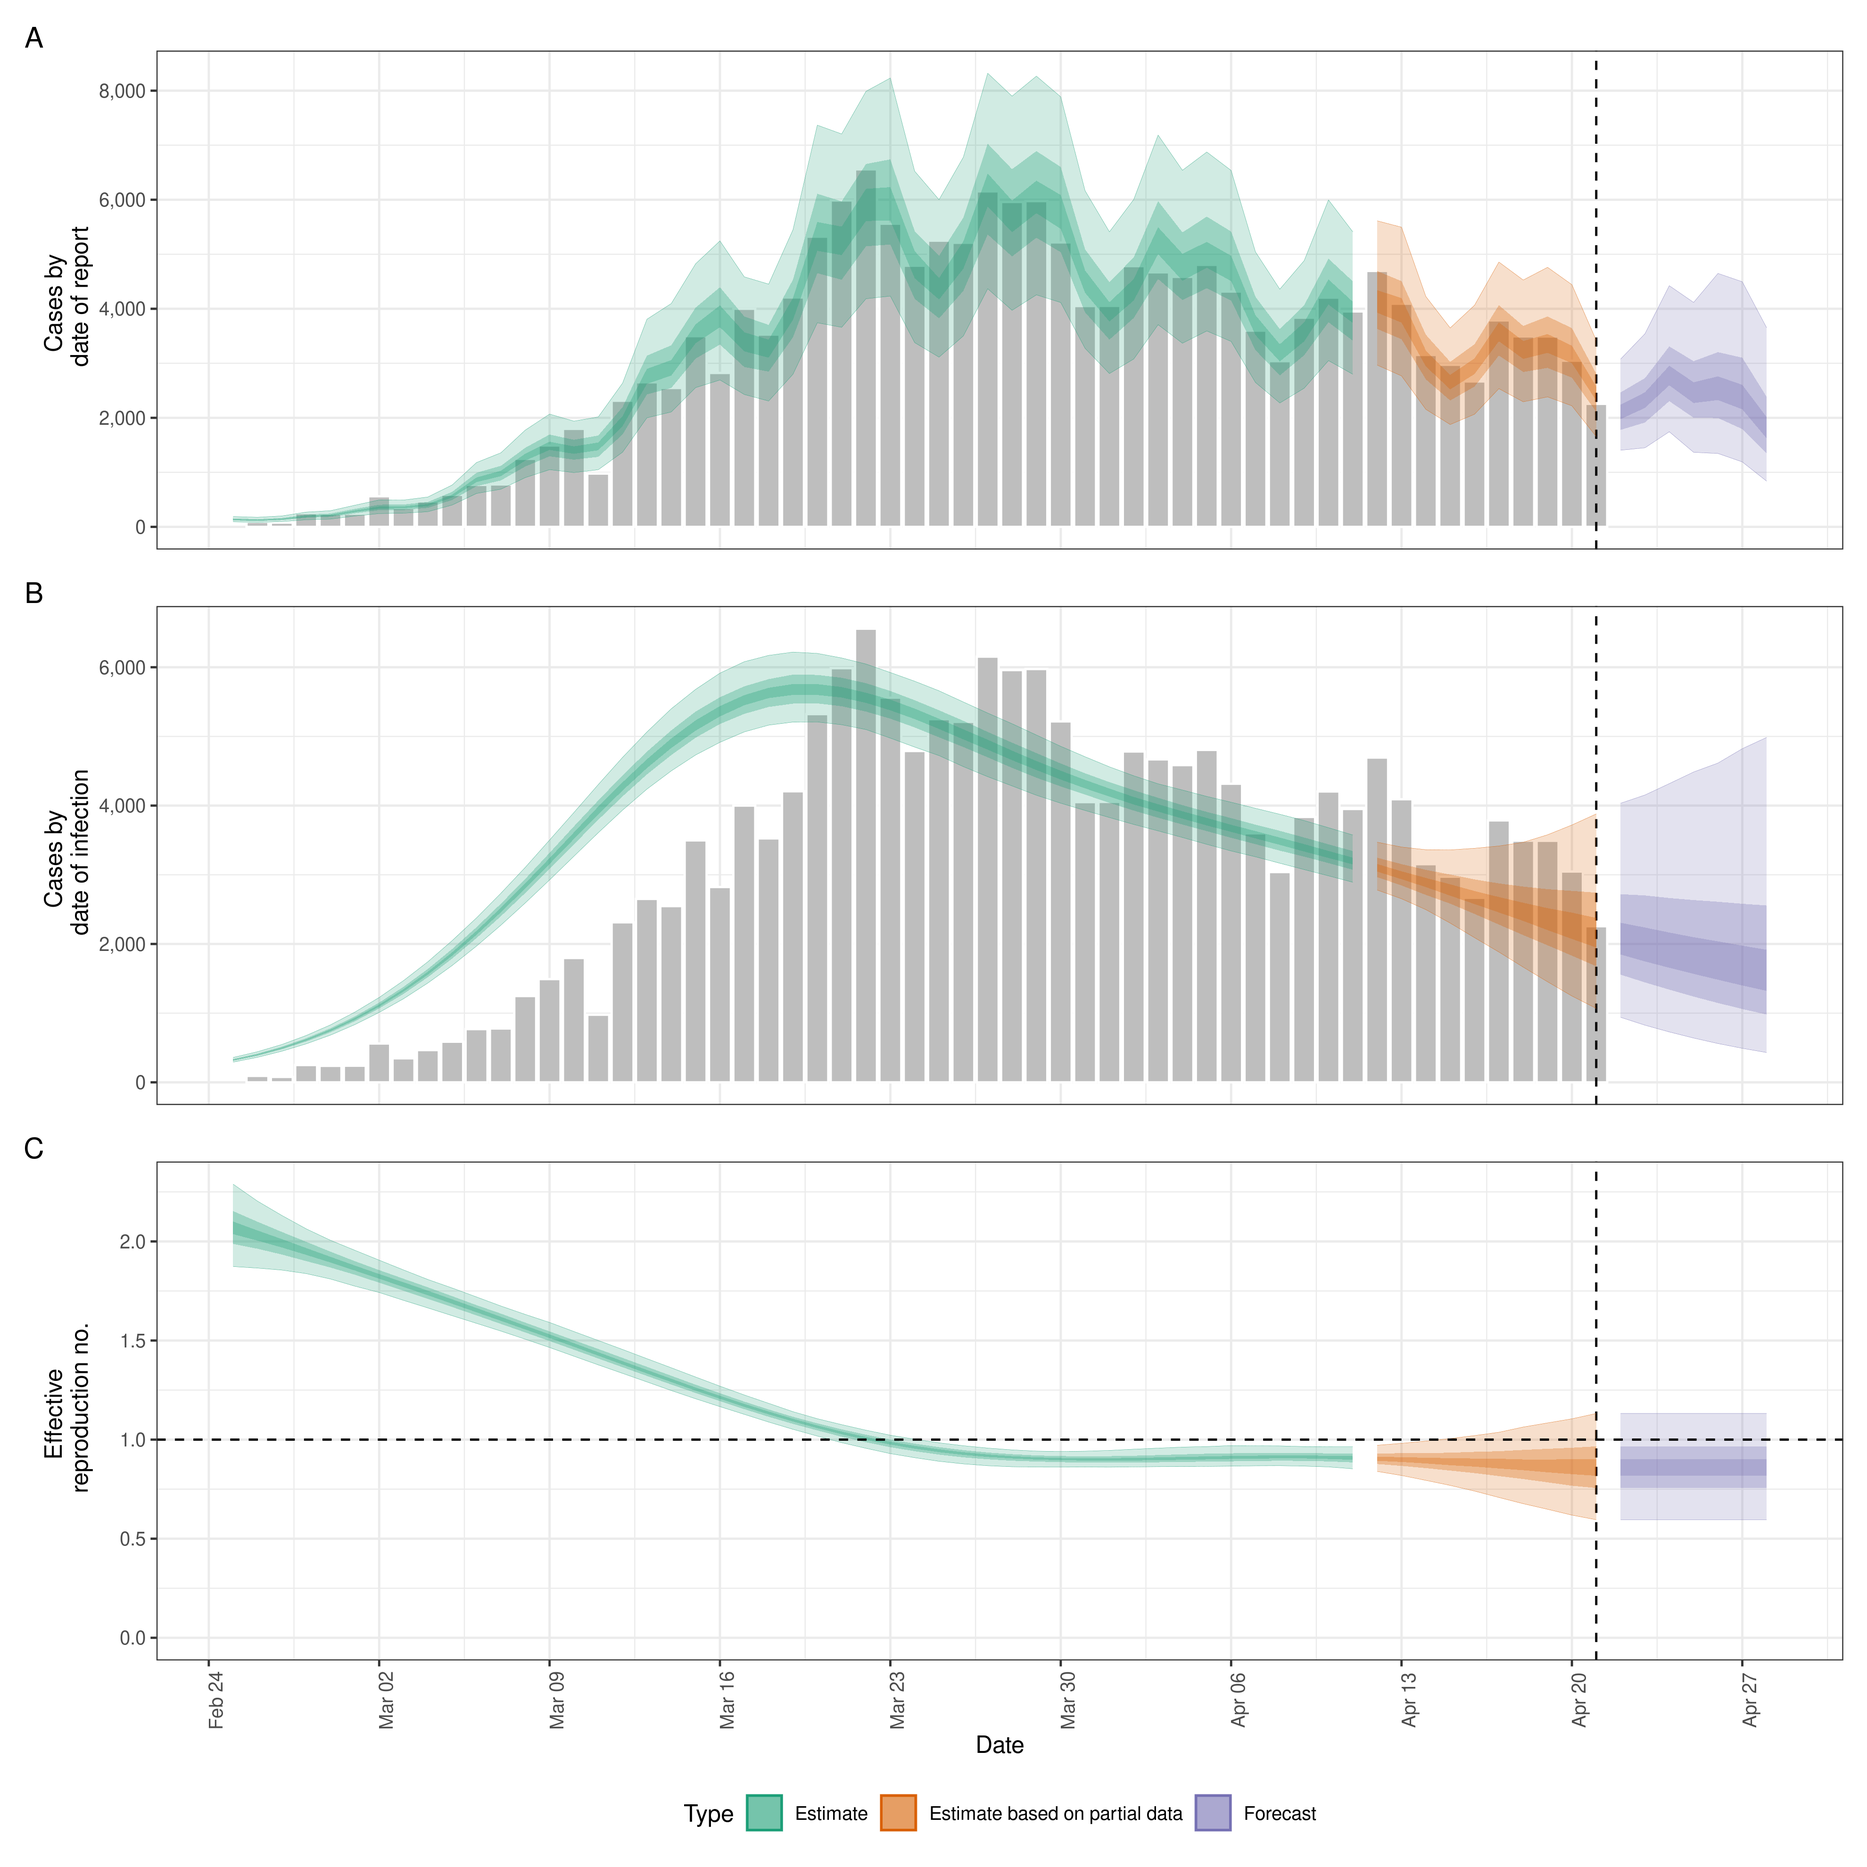
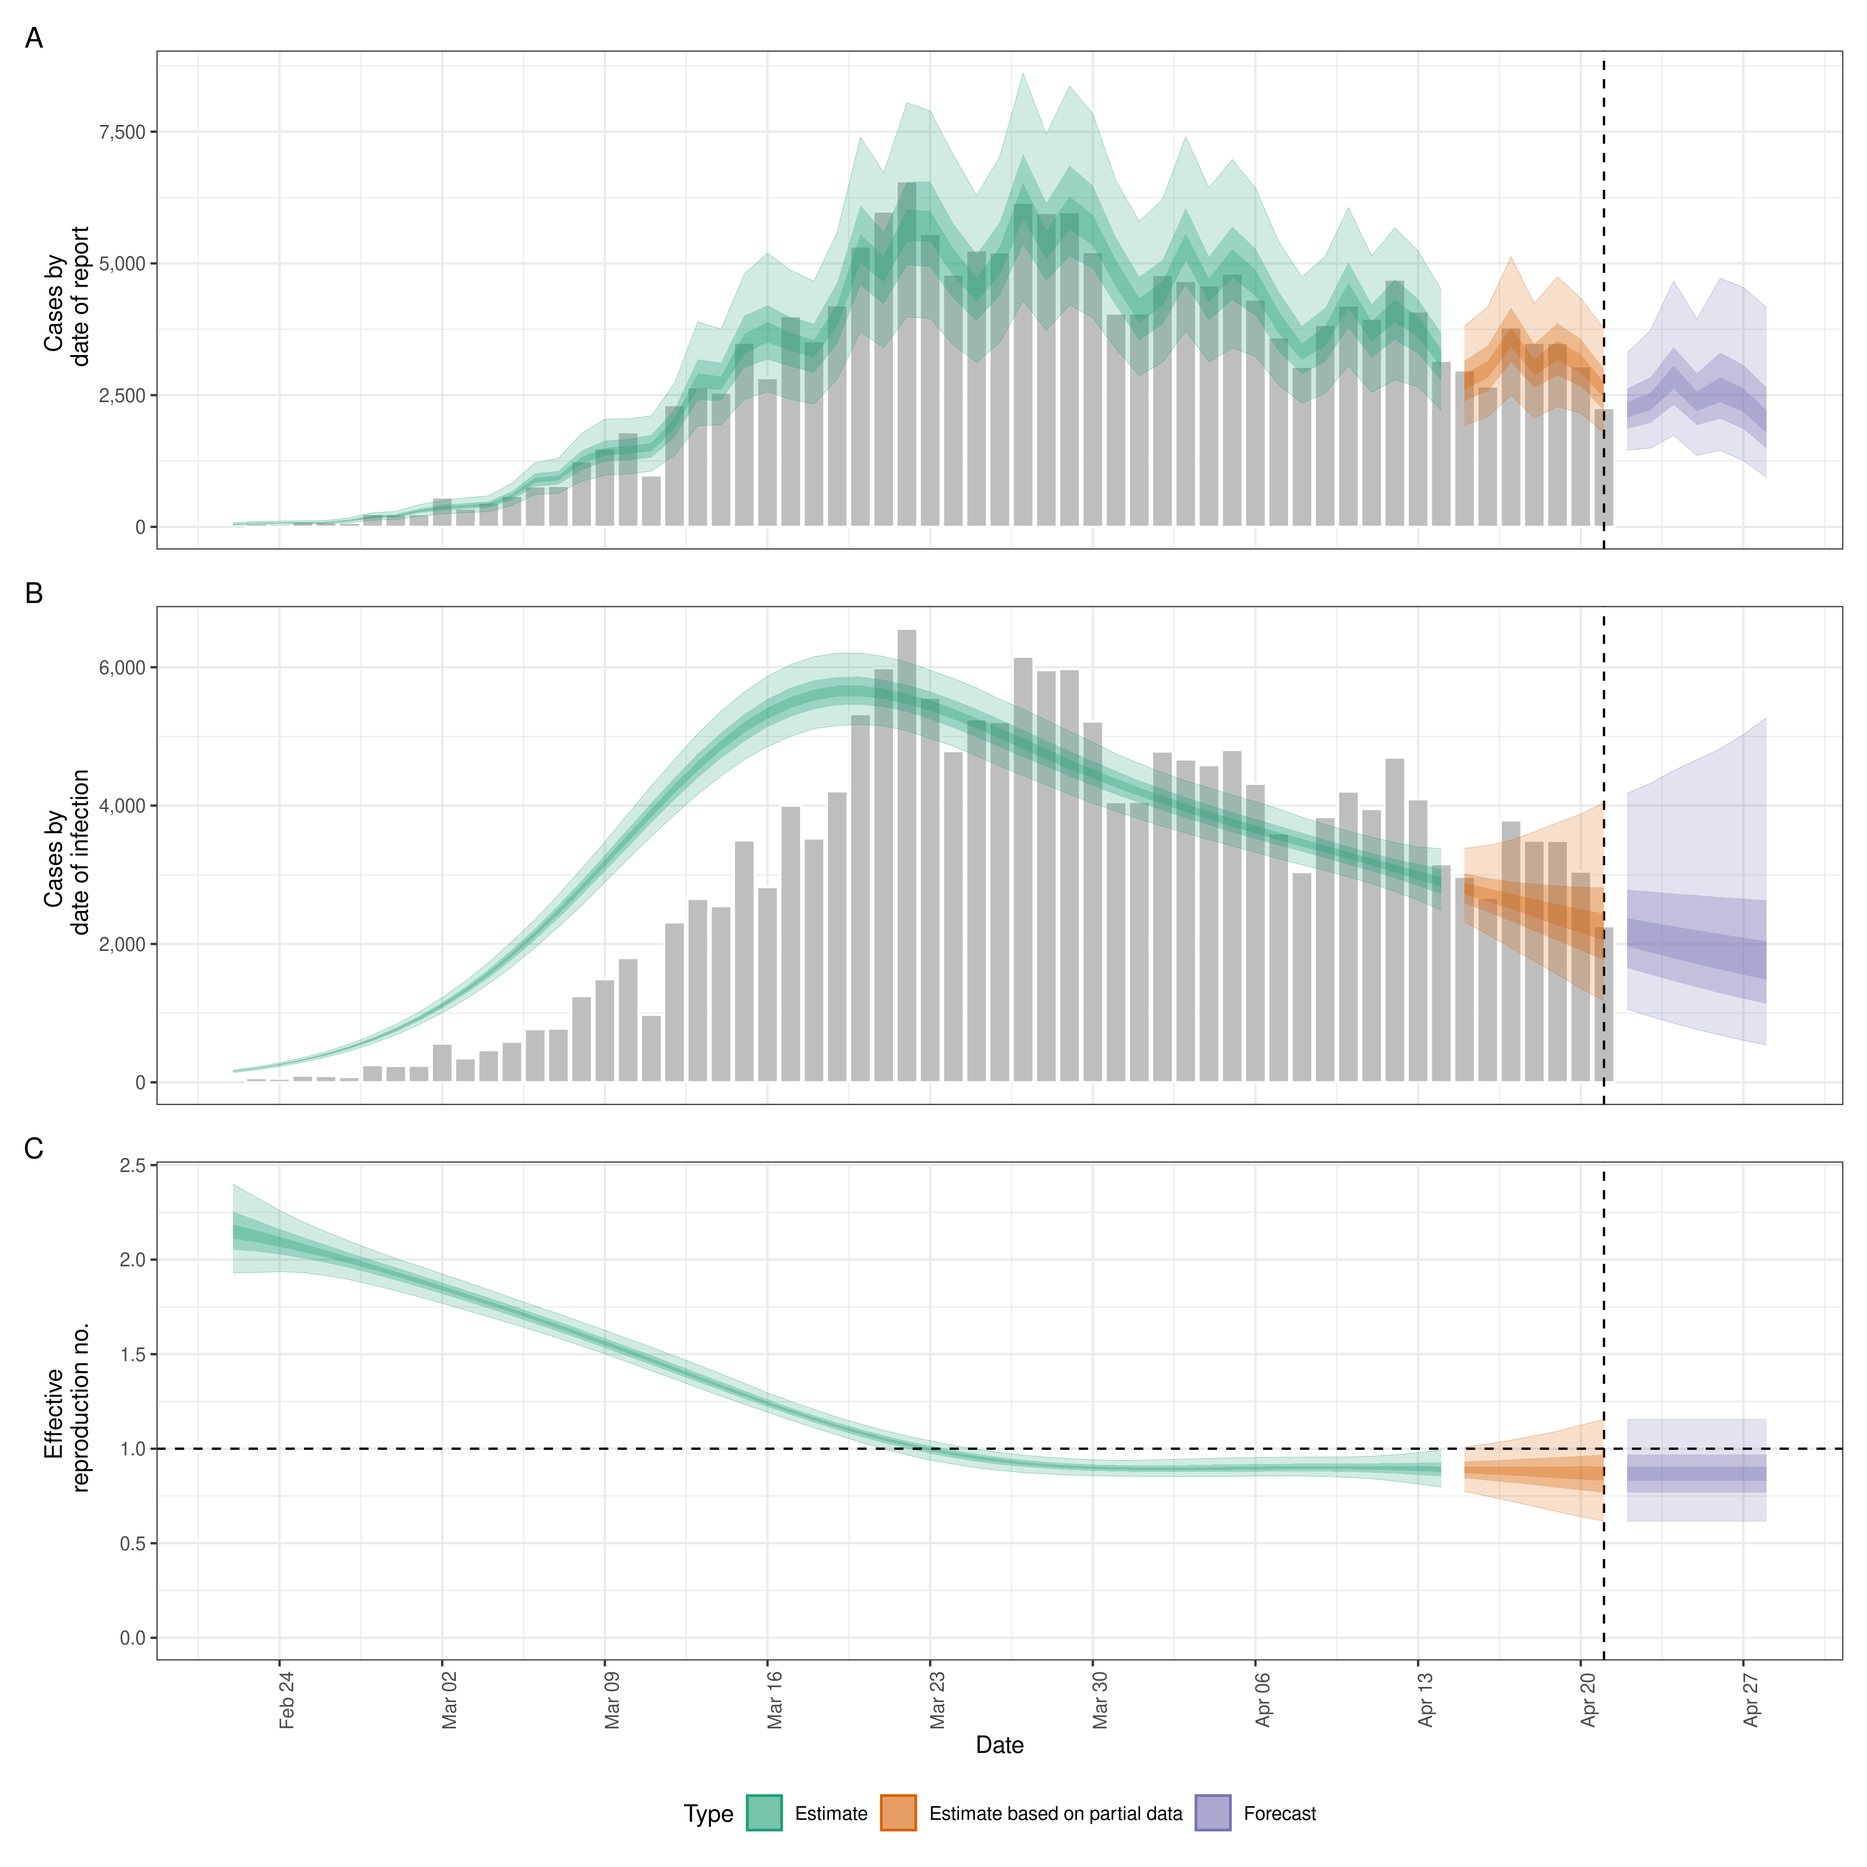
Docmentation: Refresh README

diff --git a/README.md b/README.md
@@ -51,8 +51,8 @@ options include:
     breakpoints.
   - As a random walk (by combining a fixed reproduction number with
     regularly spaced breakpoints (i.e weekly)).
-  - Inferring infections using back-calculation and then calculating the
-    time-varying reproduction number.
+  - Inferring infections using deconvolution/back-calculation and then
+    calculating the time-varying reproduction number.
   - Adjustment for the remaining susceptible population beyond the
     forecast horizon.
 
@@ -160,29 +160,31 @@ reporting_delay <- estimate_delay(
 ```
 
 If data was not available we could instead make an informed estimate of
-the likely delay (note this is a synthetic example and not applicable to
-real world use cases),
+the likely delay (*this is a synthetic example and not applicable to
+real world use cases and we have not included uncertainty to decreased
+runtimes*),
 
 ``` r
 reporting_delay <- list(
-  mean = convert_to_logmean(2, 1), mean_sd = 0.05,
-  sd = convert_to_logsd(2, 1), sd_sd = 0.05,
-  max = 10
+  mean = convert_to_logmean(2, 1), sd = convert_to_logsd(2, 1), max = 10,
+  dist = "lognormal"
 )
 ```
 
 Here we define the incubation period and generation time based on
 literature estimates for Covid-19 (see
 [here](https://github.com/epiforecasts/EpiNow2/tree/main/data-raw) for
-the code that generates these estimates). Note that these distributions
-may not be applicable for your use case.
+the code that generates these estimates). *Note that these distributions
+may not be applicable for your use case and that we have not included
+uncertainty here to reduce the runtime of this example but in most
+settings this is not recommended.*
 
 ``` r
 generation_time <- get_generation_time(
-  disease = "SARS-CoV-2", source = "ganyani", max = 10
+  disease = "SARS-CoV-2", source = "ganyani", max = 10, fixed = TRUE
 )
 incubation_period <- get_incubation_period(
-  disease = "SARS-CoV-2", source = "lauer", max = 10
+  disease = "SARS-CoV-2", source = "lauer", max = 10, fixed = TRUE
 )
 ```
 
@@ -221,17 +223,16 @@ For other formulations see the documentation for
 ``` r
 estimates <- epinow(
   reported_cases = reported_cases,
-  generation_time = generation_time,
+  generation_time = generation_time_opts(generation_time),
   delays = delay_opts(incubation_period, reporting_delay),
   rt = rt_opts(prior = list(mean = 2, sd = 0.2)),
   stan = stan_opts(cores = 4, control = list(adapt_delta = 0.99)),
   verbose = interactive()
 )
-#> DEBUG [2023-01-18 21:43:36] epinow: Running in exact mode for 2000 samples (across 4 chains each with a warm up of 250 iterations each) and 74 time steps of which 7 are a forecast
+#> DEBUG [2023-01-24 20:19:35] epinow: Running in exact mode for 2000 samples (across 4 chains each with a warm up of 250 iterations each) and 74 time steps of which 7 are a forecast
 names(estimates)
-#> [1] "estimates"                "estimated_reported_cases"
-#> [3] "summary"                  "plots"                   
-#> [5] "timing"
+#> [1] "estimates"                "estimated_reported_cases" "summary"                 
+#> [4] "plots"                    "timing"
 ```
 
 Both summary measures and posterior samples are returned for all
@@ -243,43 +244,35 @@ parameters at the latest date partially supported by data.
 knitr::kable(summary(estimates))
 ```
 
-| measure                               | estimate               |
-| :------------------------------------ | :--------------------- |
-| New confirmed cases by infection date | 2155 (1068 – 3879)     |
-| Expected change in daily cases        | Likely decreasing      |
-| Effective reproduction no.            | 0.86 (0.6 – 1.1)       |
-| Rate of growth                        | \-0.04 (-0.12 – 0.035) |
-| Doubling/halving time (days)          | \-17 (20 – -5.8)       |
+| measure                               | estimate                |
+| :------------------------------------ | :---------------------- |
+| New confirmed cases by infection date | 2241 (1175 – 4043)      |
+| Expected change in daily cases        | Likely decreasing       |
+| Effective reproduction no.            | 0.87 (0.62 – 1.2)       |
+| Rate of growth                        | \-0.037 (-0.11 – 0.042) |
+| Doubling/halving time (days)          | \-19 (17 – -6.2)        |
 
 Summarised parameter estimates can also easily be returned, either
 filtered for a single parameter or for all parameters.
 
 ``` r
 head(summary(estimates, type = "parameters", params = "R"))
-#>          date variable  strat     type   median     mean
-#>        <Date>   <char> <char>   <char>    <num>    <num>
-#> 1: 2020-02-25        R   <NA> estimate 2.065829 2.072397
-#> 2: 2020-02-26        R   <NA> estimate 2.028341 2.032065
-#> 3: 2020-02-27        R   <NA> estimate 1.988446 1.991100
-#> 4: 2020-02-28        R   <NA> estimate 1.949131 1.949639
-#> 5: 2020-02-29        R   <NA> estimate 1.907343 1.907810
-#> 6: 2020-03-01        R   <NA> estimate 1.865667 1.865723
-#>            sd lower_90 lower_50 lower_20 upper_20 upper_50
-#>         <num>    <num>    <num>    <num>    <num>    <num>
-#> 1: 0.12685720 1.873162 1.987449 2.036753 2.100213 2.152940
-#> 2: 0.10264874 1.865377 1.963180 2.004094 2.055362 2.099367
-#> 3: 0.08384514 1.855377 1.933914 1.969500 2.011835 2.047998
-#> 4: 0.07003120 1.837577 1.900835 1.932157 1.966650 1.998166
-#> 5: 0.06045323 1.810256 1.868194 1.893597 1.922287 1.948232
-#> 6: 0.05407338 1.774314 1.832062 1.853145 1.878255 1.900403
-#>    upper_90
-#>       <num>
-#> 1: 2.288921
-#> 2: 2.203336
-#> 3: 2.131155
-#> 4: 2.063657
-#> 5: 2.005690
-#> 6: 1.955251
+#>          date variable strat     type   median     mean         sd lower_90 lower_50
+#>        <Date>   <char> <int>   <char>    <num>    <num>      <num>    <num>    <num>
+#> 1: 2020-02-22        R    NA estimate 2.148647 2.154214 0.14450153 1.929487 2.051622
+#> 2: 2020-02-23        R    NA estimate 2.121512 2.125653 0.12003979 1.931839 2.042736
+#> 3: 2020-02-24        R    NA estimate 2.093420 2.095419 0.09974015 1.936182 2.027337
+#> 4: 2020-02-25        R    NA estimate 2.061786 2.063610 0.08349157 1.930889 2.007475
+#> 5: 2020-02-26        R    NA estimate 2.030095 2.030369 0.07109622 1.915872 1.983404
+#> 6: 2020-02-27        R    NA estimate 1.996345 1.995861 0.06219250 1.893969 1.956212
+#>    lower_20 upper_20 upper_50 upper_90
+#>       <num>    <num>    <num>    <num>
+#> 1: 2.111131 2.185022 2.253146 2.398995
+#> 2: 2.091795 2.154419 2.208429 2.328889
+#> 3: 2.067632 2.120660 2.161471 2.260970
+#> 4: 2.041539 2.084712 2.119120 2.199715
+#> 5: 2.011280 2.048115 2.077987 2.146658
+#> 6: 1.980218 2.012074 2.036623 2.097979
 ```
 
 Reported cases are returned in a separate data frame in order to
@@ -287,22 +280,22 @@ streamline the reporting of forecasts and for model evaluation.
 
 ``` r
 head(summary(estimates, output = "estimated_reported_cases"))
-#>          date   type median     mean       sd lower_90 lower_50
-#>        <Date> <char>  <num>    <num>    <num>    <num>    <num>
-#> 1: 2020-02-25  gp_rt    135 137.4510 30.71554    93.00      115
-#> 2: 2020-02-26  gp_rt    123 124.8070 27.21185    83.00      106
-#> 3: 2020-02-27  gp_rt    142 144.1400 31.78009    96.95      122
-#> 4: 2020-02-28  gp_rt    191 195.2790 42.70302   131.00      165
-#> 5: 2020-02-29  gp_rt    211 213.9030 46.34714   142.95      183
-#> 6: 2020-03-01  gp_rt    286 290.6265 60.58639   199.00      249
-#>    lower_20 upper_20 upper_50 upper_90
-#>       <num>    <num>    <num>    <num>
-#> 1:      127    143.0      156   189.00
-#> 2:      116    129.4      142   176.00
-#> 3:      134    150.0      163   200.00
-#> 4:      181    203.0      222   271.05
-#> 5:      199    223.0      244   297.00
-#> 6:      271    302.0      330   397.00
+#>          date   type median     mean       sd lower_90 lower_50 lower_20 upper_20
+#>        <Date> <char>  <num>    <num>    <num>    <num>    <num>    <num>    <num>
+#> 1: 2020-02-22  gp_rt     50  51.6335 14.08188       32       41     47.0       54
+#> 2: 2020-02-23  gp_rt     69  70.4195 18.02745       44       58     64.0       73
+#> 3: 2020-02-24  gp_rt     76  78.0840 19.29451       49       64     72.0       81
+#> 4: 2020-02-25  gp_rt     79  79.7110 19.49842       51       66     73.0       83
+#> 5: 2020-02-26  gp_rt     84  85.7190 21.08341       54       71     79.0       90
+#> 6: 2020-02-27  gp_rt    119 121.6290 29.19472       77      101    112.6      127
+#>    upper_50 upper_90
+#>       <num>    <num>
+#> 1:       60    77.00
+#> 2:       81   103.00
+#> 3:       89   112.00
+#> 4:       92   114.00
+#> 5:       98   123.05
+#> 6:      140   173.00
 ```
 
 A range of plots are returned (with the single summary plot shown
@@ -352,27 +345,30 @@ estimates <- regional_epinow(
   gp = NULL,
   stan = stan_opts(cores = 4, warmup = 250, samples = 1000)
 )
-#> INFO [2023-01-18 21:47:04] Producing following optional outputs: regions, summary, samples, plots, latest
-#> INFO [2023-01-18 21:47:04] Reporting estimates using data up to: 2020-04-21
-#> INFO [2023-01-18 21:47:04] No target directory specified so returning output
-#> INFO [2023-01-18 21:47:04] Producing estimates for: testland, realland
-#> INFO [2023-01-18 21:47:04] Regions excluded: none
-#> DEBUG [2023-01-18 21:47:04] testland: Running in exact mode for 1000 samples (across 4 chains each with a warm up of 250 iterations each) and 74 time steps of which 7 are a forecast
-#> WARN [2023-01-18 21:47:27] testland (chain: 1): Bulk Effective Samples Size (ESS) is too low, indicating posterior means and medians may be unreliable.
+#> INFO [2023-01-24 20:22:12] Producing following optional outputs: regions, summary, samples, plots, latest
+#> INFO [2023-01-24 20:22:12] Reporting estimates using data up to: 2020-04-21
+#> INFO [2023-01-24 20:22:12] No target directory specified so returning output
+#> INFO [2023-01-24 20:22:12] Producing estimates for: testland, realland
+#> INFO [2023-01-24 20:22:12] Regions excluded: none
+#> DEBUG [2023-01-24 20:22:12] testland: Running in exact mode for 1000 samples (across 4 chains each with a warm up of 250 iterations each) and 74 time steps of which 7 are a forecast
+#> WARN [2023-01-24 20:22:30] testland (chain: 1): Bulk Effective Samples Size (ESS) is too low, indicating posterior means and medians may be unreliable.
 #> Running the chains for more iterations may help. See
 #> https://mc-stan.org/misc/warnings.html#bulk-ess - 
-#> INFO [2023-01-18 21:47:28] Completed estimates for: testland
-#> DEBUG [2023-01-18 21:47:28] realland: Running in exact mode for 1000 samples (across 4 chains each with a warm up of 250 iterations each) and 74 time steps of which 7 are a forecast
-#> WARN [2023-01-18 21:47:50] realland (chain: 1): Bulk Effective Samples Size (ESS) is too low, indicating posterior means and medians may be unreliable.
+#> WARN [2023-01-24 20:22:30] testland (chain: 1): Tail Effective Samples Size (ESS) is too low, indicating posterior variances and tail quantiles may be unreliable.
+#> Running the chains for more iterations may help. See
+#> https://mc-stan.org/misc/warnings.html#tail-ess - 
+#> INFO [2023-01-24 20:22:31] Completed estimates for: testland
+#> DEBUG [2023-01-24 20:22:31] realland: Running in exact mode for 1000 samples (across 4 chains each with a warm up of 250 iterations each) and 74 time steps of which 7 are a forecast
+#> WARN [2023-01-24 20:22:48] realland (chain: 1): Bulk Effective Samples Size (ESS) is too low, indicating posterior means and medians may be unreliable.
 #> Running the chains for more iterations may help. See
 #> https://mc-stan.org/misc/warnings.html#bulk-ess - 
-#> INFO [2023-01-18 21:47:51] Completed estimates for: realland
-#> INFO [2023-01-18 21:47:51] Completed regional estimates
-#> INFO [2023-01-18 21:47:51] Regions with estimates: 2
-#> INFO [2023-01-18 21:47:51] Regions with runtime errors: 0
-#> INFO [2023-01-18 21:47:51] Producing summary
-#> INFO [2023-01-18 21:47:51] No summary directory specified so returning summary output
-#> INFO [2023-01-18 21:47:52] No target directory specified so returning timings
+#> INFO [2023-01-24 20:22:49] Completed estimates for: realland
+#> INFO [2023-01-24 20:22:49] Completed regional estimates
+#> INFO [2023-01-24 20:22:49] Regions with estimates: 2
+#> INFO [2023-01-24 20:22:49] Regions with runtime errors: 0
+#> INFO [2023-01-24 20:22:49] Producing summary
+#> INFO [2023-01-24 20:22:49] No summary directory specified so returning summary output
+#> INFO [2023-01-24 20:22:50] No target directory specified so returning timings
 ```
 
 Results from each region are stored in a `regional` list with across
@@ -397,8 +393,8 @@ knitr::kable(estimates$summary$summarised_results$table)
 
 | Region   | New confirmed cases by infection date | Expected change in daily cases | Effective reproduction no. | Rate of growth          | Doubling/halving time (days) |
 | :------- | :------------------------------------ | :----------------------------- | :------------------------- | :---------------------- | :--------------------------- |
-| realland | 2072 (1196 – 3680)                    | Likely decreasing              | 0.85 (0.61 – 1.2)          | \-0.043 (-0.11 – 0.049) | \-16 (14 – -6.1)             |
-| testland | 2077 (1173 – 3716)                    | Likely decreasing              | 0.86 (0.62 – 1.2)          | \-0.039 (-0.11 – 0.05)  | \-18 (14 – -6.2)             |
+| realland | 2107 (1168 – 3633)                    | Likely decreasing              | 0.86 (0.62 – 1.2)          | \-0.039 (-0.11 – 0.043) | \-18 (16 – -6.1)             |
+| testland | 2075 (1164 – 3683)                    | Likely decreasing              | 0.86 (0.61 – 1.2)          | \-0.041 (-0.12 – 0.052) | \-17 (13 – -6)               |
 
 A range of plots are again returned (with the single summary plot shown
 below).
